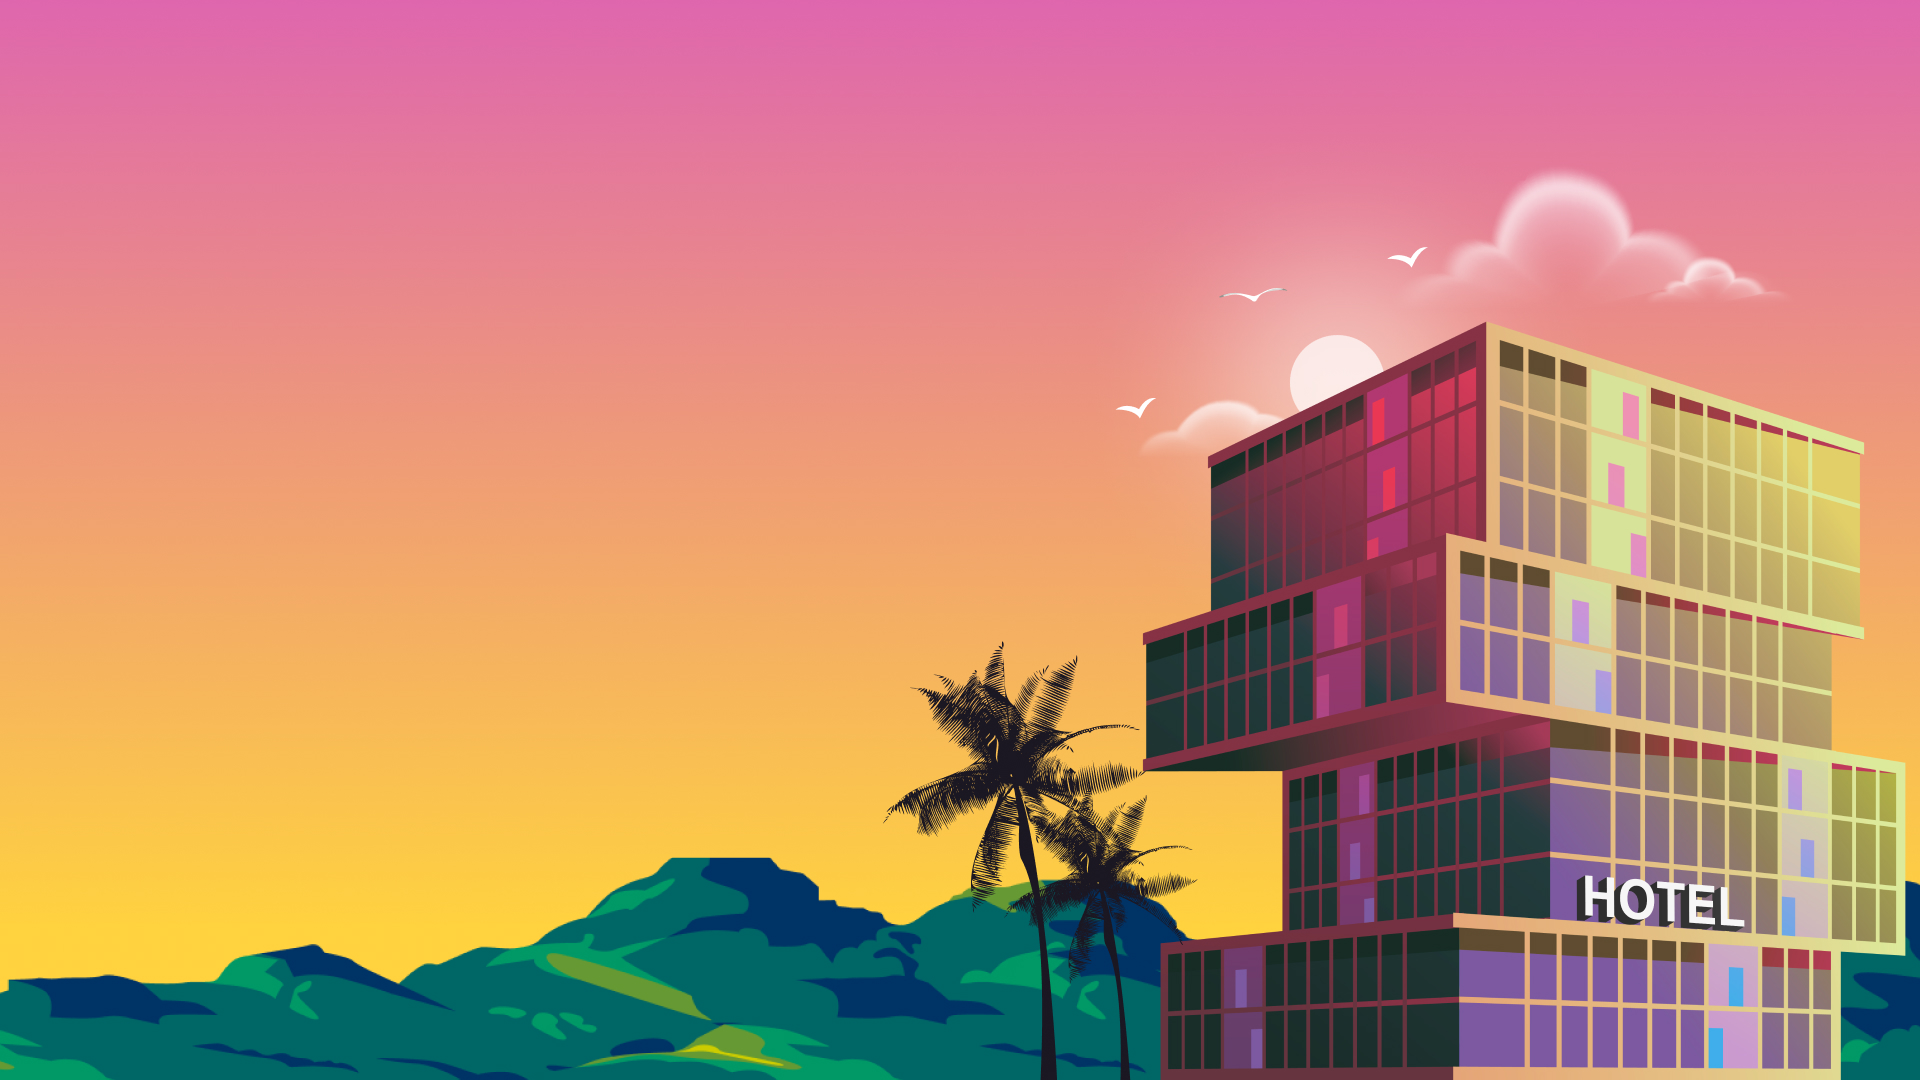
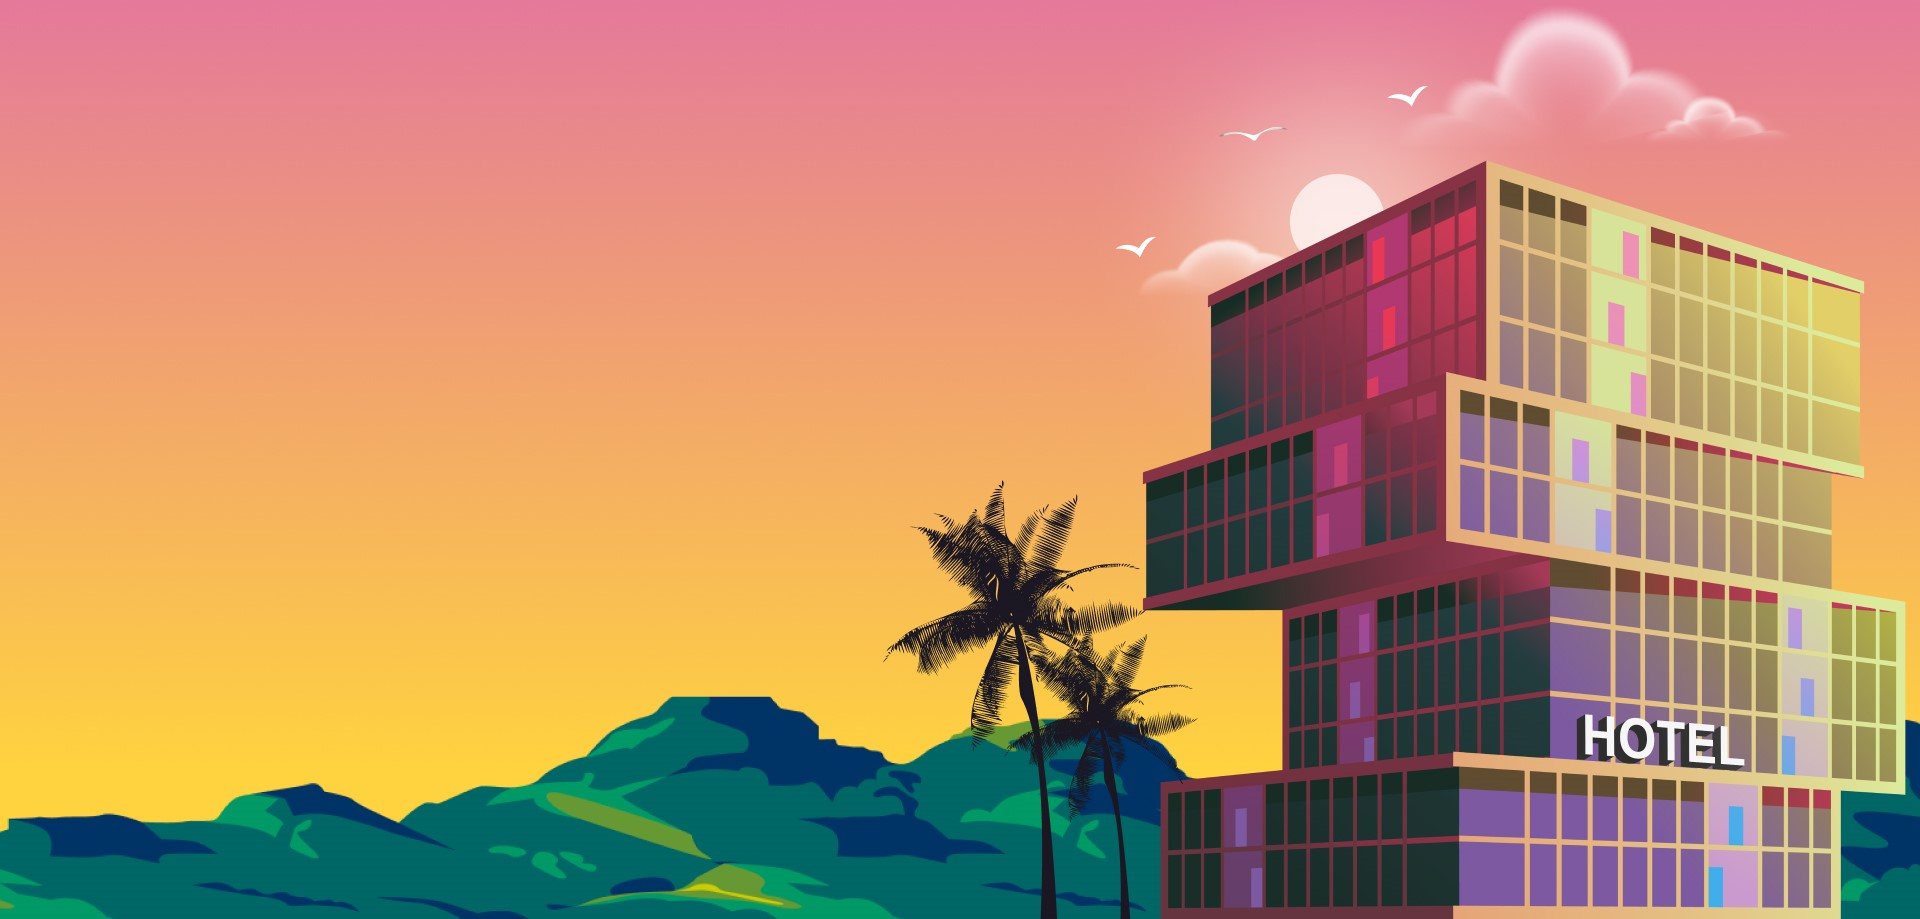
Background Image Fixes

Changed region(s): [[0.0, 0.0, 1.0, 1.0], [0.5625, 0.975, 0.5938, 1.0]]

diff --git a/styles/Home.module.css b/styles/Home.module.css
@@ -9,16 +9,17 @@
 }
 
 .main {
-  /* min-height: 100vh; */
-  padding: 4rem 0;
+  min-height: 98vh;
+  padding: 2rem 0;
   flex: 1;
   display: flex;
   flex-direction: column;
   justify-content: center;
   align-items: center;
-  background-size: cover;
+  background-size: contain;
   background-repeat: no-repeat;
   margin: 0 -2rem 2rem;
+  background-position: center;
 }
 
 .mainDarkBg {
@@ -339,6 +340,20 @@
   width: 50%;
 }
 
+@media (max-width: 1440px) {
+  .main {
+    min-height: 64vh;
+  }
+}
+
+@media (max-width: 1024px) {
+  .main {
+    min-height: auto;
+    padding: 0px;
+    background-size: cover;
+  }
+}
+
 @media (max-width: 600px) {
   .grid {
     width: 100%;
@@ -398,4 +413,8 @@
 .about {
   font-family: "Wigglye";
   font-size: 1.8rem;
+  display: flex;
+  justify-content: center;
+  align-items: center;
+  margin: 0 10rem;
 }

diff --git a/components/About.js b/components/About.js
@@ -1,8 +1,8 @@
 import styles from "/styles/Home.module.css";
 export default function About() {
   return (
-    <>
-      <h1 className={styles.about}>
+    <div className={styles.about}>
+      <h1>
         While looking for an adventure the four of us met at the foothills of
         the Himalayas. The night prior to our adventure we sat together breaking
         bread sharing a steaming pot of soup while a rumbling river filled the
@@ -16,6 +16,6 @@ export default function About() {
         created. Welcome to the greatest adventure of your life. Who is ready to
         become a Bohemian Boy?!
       </h1>
-    </>
+    </div>
   );
 }
